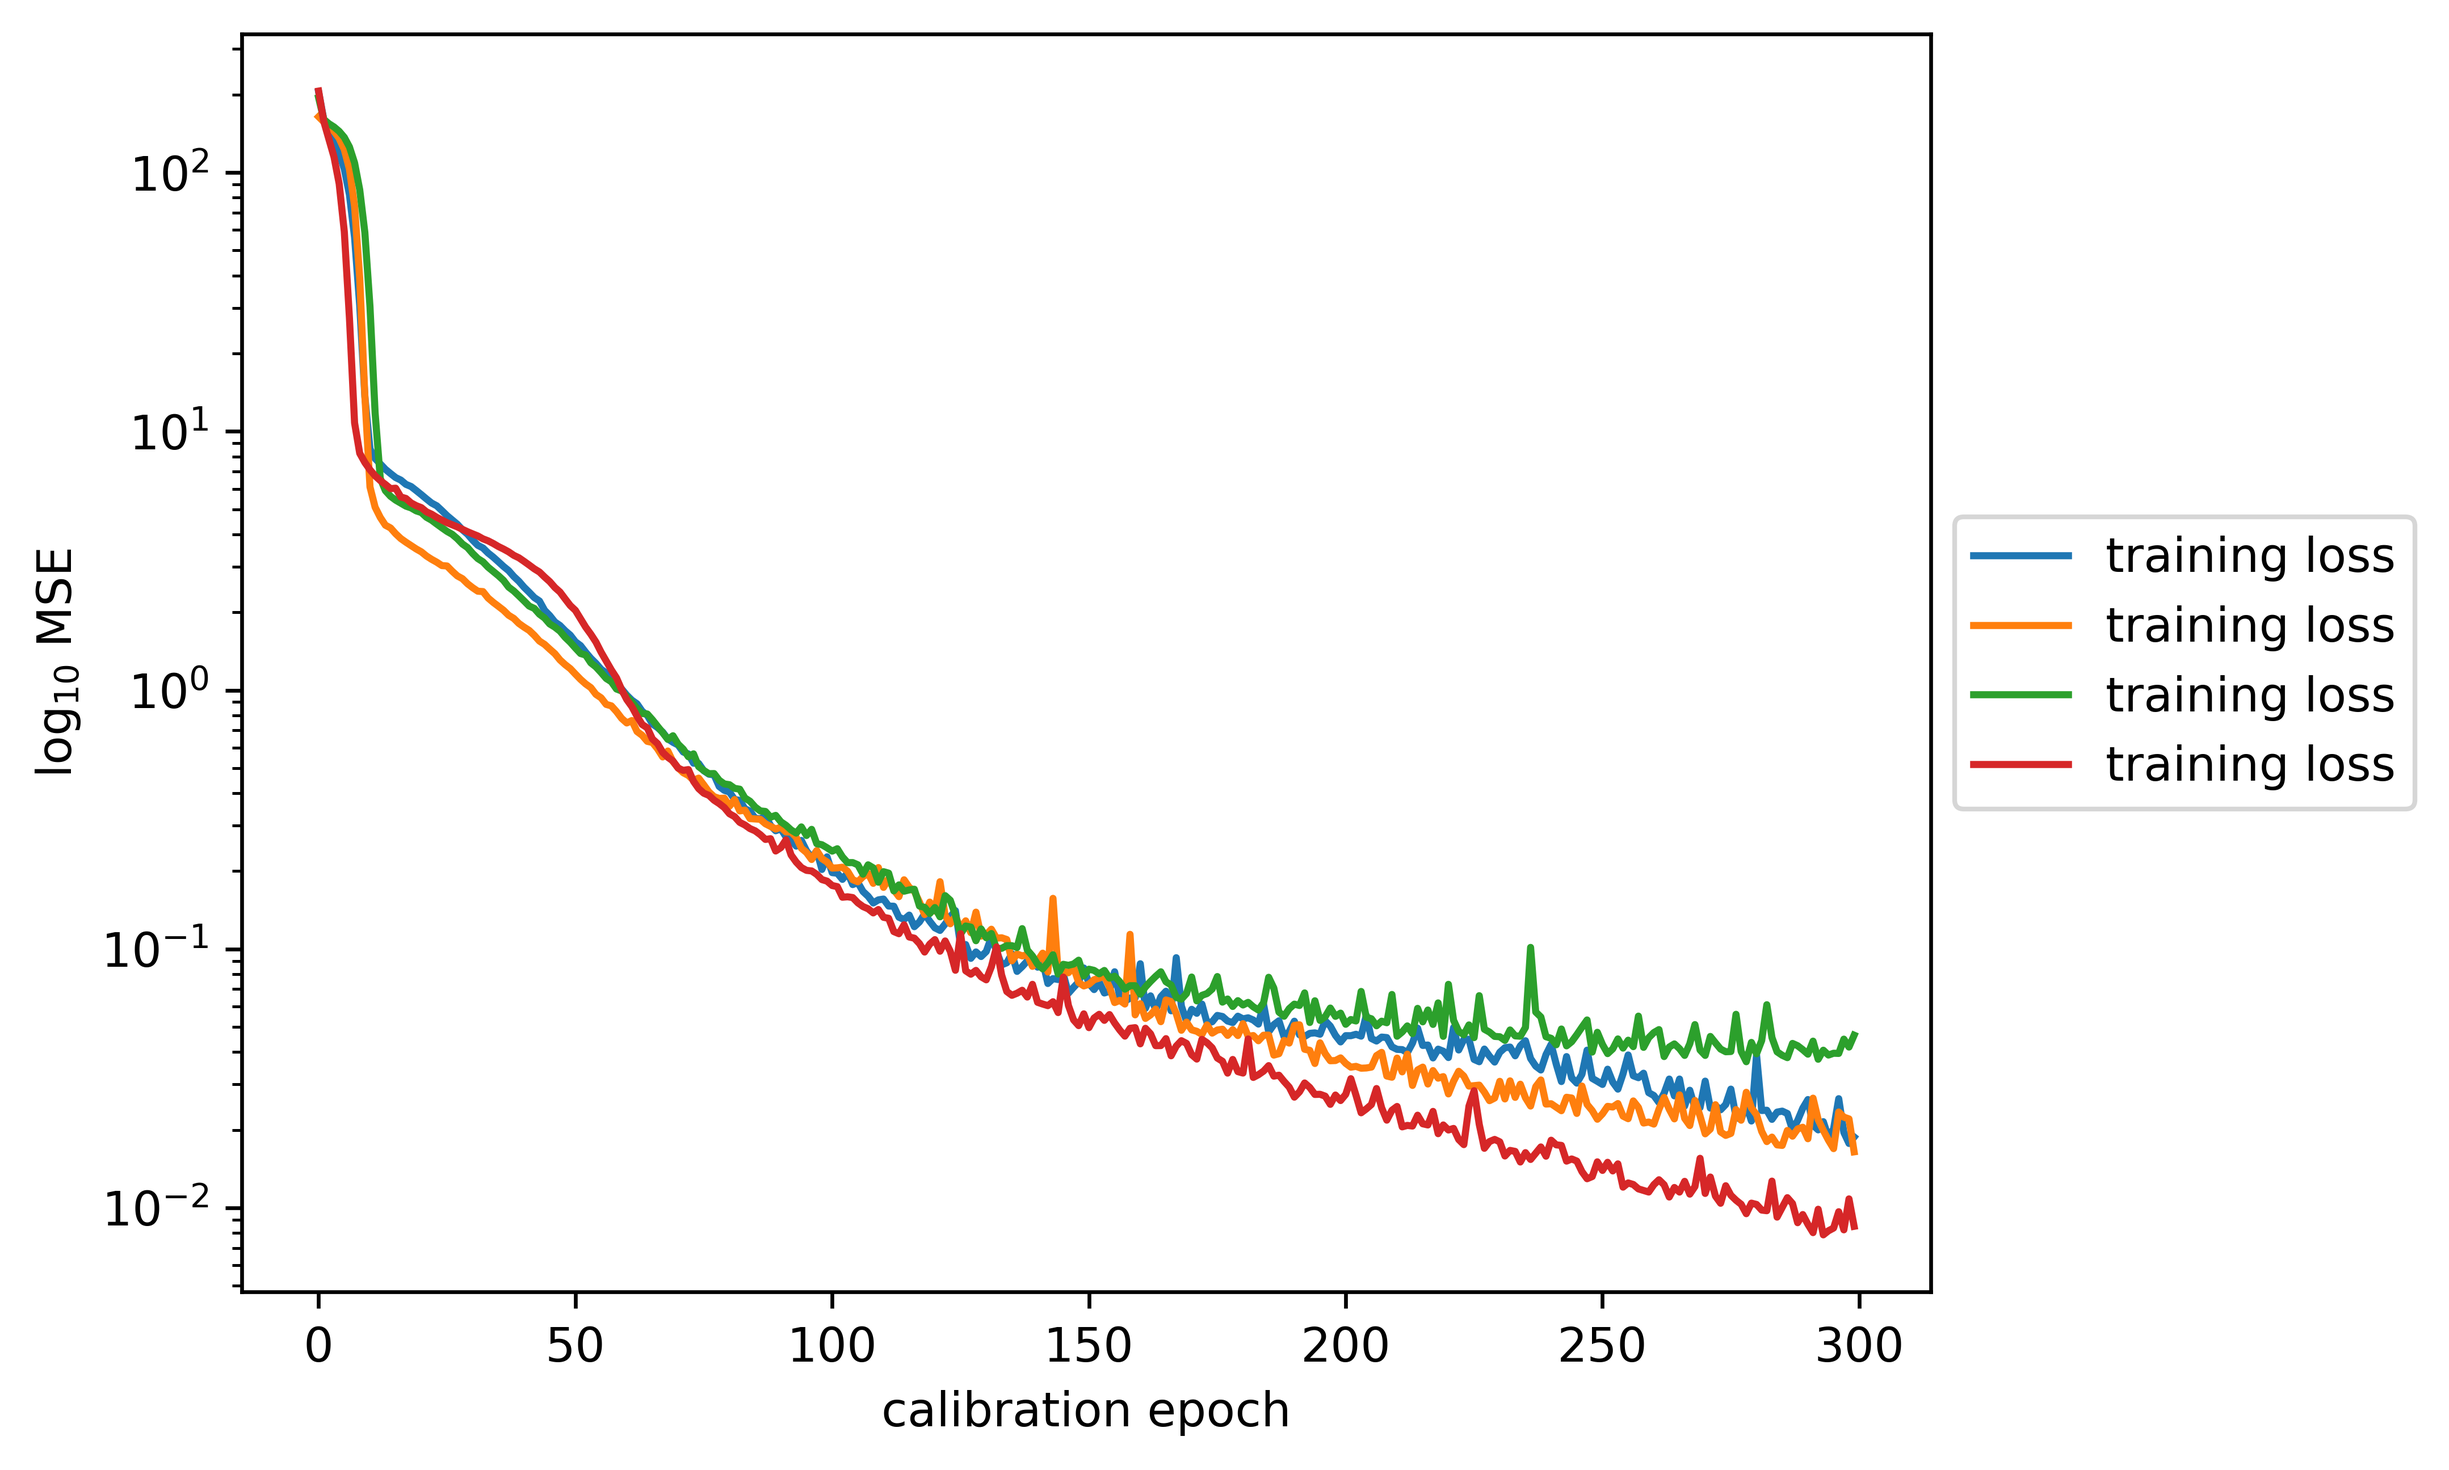
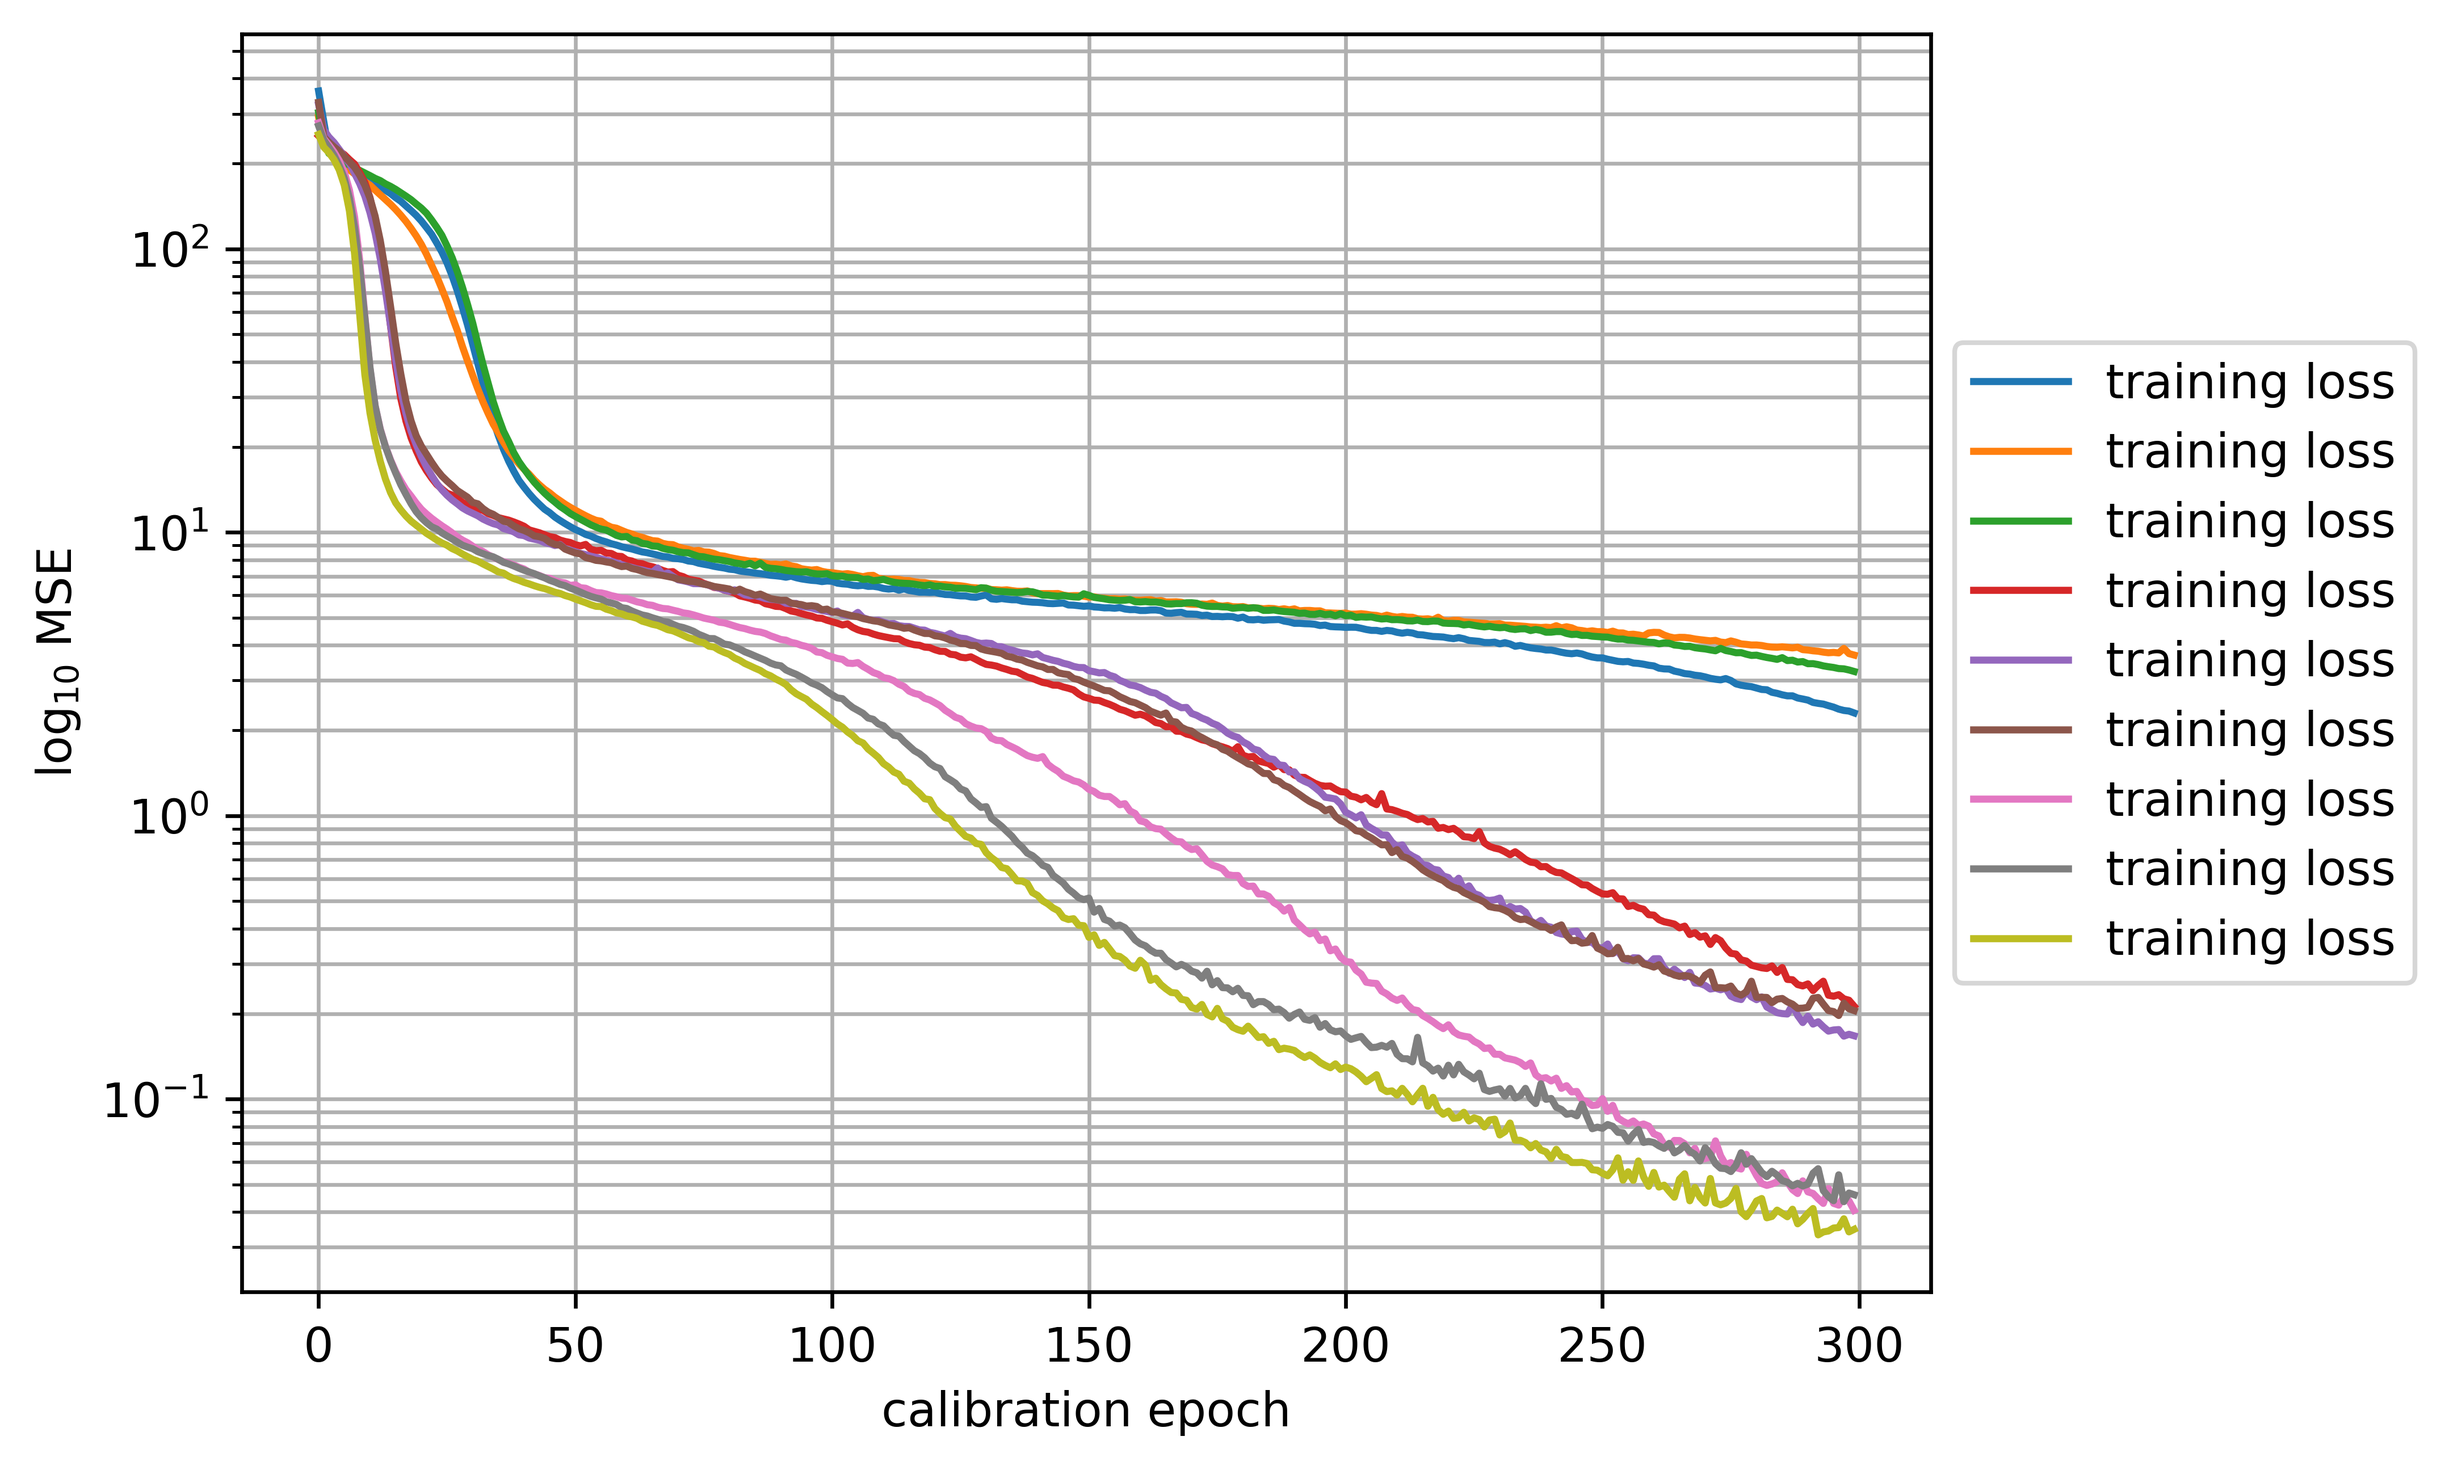
Reworked plots for task 4

diff --git a/Task_02/02_hyperelasticity_I/main_concentric_sampling.py b/Task_02/02_hyperelasticity_I/main_concentric_sampling.py
@@ -34,61 +34,34 @@ Training
 
 FNUM = 100
 #test_train_split = np.array([0.1,0.2,0.3,0.4,0.5,0.6,0.7,0.8,0.9,0.95,0.99])
-test_train_split = np.array([0.1,0.2])
-JMAX = 2
+test_train_split = np.array([0.1,0.2, 0.3])
+JMAX = 3
 t_type = 'PhysicsAugmented' # 'Naive'
 
-loss_weights = [0, 1] # only used for physics augmented training
+loss_weights = [1, 1] # only used for physics augmented training
 epochs = 300
 verbose = 0
 
-# create training and test split
-fnum = tf.random.shuffle(np.arange(1,FNUM + 1))
-ftrain, ftest = tf.split(fnum, [int(split * (FNUM + 1)), -1])
-
-# load test and train data paths
-train_paths = ld.generate_concentric_paths(ftrain)
-test_paths = ld.generate_concentric_paths(ftest)
+NUMSPLITS = test_train_split.size
 
 # initialization
-# mean_train_losses = np.zeros([test_train_split.size, 3])
-# mean_test_losses = np.zeros([test_train_split.size, 3])
-
-# median_train_losses = np.zeros([test_train_split.size, 3])
-# median_test_losses = np.zeros([test_train_split.size, 3])
-
-# max_train_losses = np.zeros([test_train_split.size, 3])
-# max_test_losses = np.zeros([test_train_split.size, 3])
-
-# min_train_losses = np.zeros([test_train_split.size, 3])
-# min_test_losses = np.zeros([test_train_split.size, 3])
-
-#tmp = pd.DataFrame(np.zeros([test_train_split.size, 3]),
-#            columns=['total', 'function', 'gradient'])
-#df_train = pd.concat([tmp, tmp, tmp, tmp], keys=('mean', 'median', 'max', 'min'))
-#df_test = pd.concat([tmp, tmp, tmp, tmp], keys=('mean', 'median', 'max', 'min'))
-
-train_losses = np.zeros([test_train_split.size, JMAX, len(train_paths), 3])
-test_losses = np.zeros([test_train_split.size, JMAX, len(test_paths), 3])
+train_losses = np.empty([NUMSPLITS, JMAX], dtype=object)
+test_losses = np.empty([NUMSPLITS, JMAX], dtype=object)
+#train_losses = np.zeros([NUMSPLITS, JMAX, len(train_paths), 3])
+#test_losses = np.zeros([NUMSPLITS, JMAX, len(test_paths), 3])
 
 t1 = now()
 for i, split in enumerate(test_train_split):
-    # mean_train_losses_tmp = np.zeros([JMAX,3])
-    # mean_test_losses_tmp = np.zeros([JMAX,3])
+    # create training and test split
+    fnum = tf.random.shuffle(np.arange(1,FNUM + 1))
+    ftrain, ftest = tf.split(fnum, [int(split * (FNUM + 1)), -1])
 
-    # median_train_losses_tmp = np.zeros([JMAX,3])
-    # median_test_losses_tmp = np.zeros([JMAX,3])
-
-    # max_train_losses_tmp = np.zeros([JMAX,3])
-    # max_test_losses_tmp = np.zeros([JMAX,3])
-
-    # min_train_losses_tmp = np.zeros([JMAX,3])
-    # min_test_losses_tmp = np.zeros([JMAX,3])
-    #train_losses_tmp = np.zeros([4, JMAX, 3])
-    #test_losses_tmp = np.zeros([4, JMAX, 3])
+    # load test and train data paths
+    train_paths = ld.generate_concentric_paths(ftrain)
+    test_paths = ld.generate_concentric_paths(ftest)
 
     for j in range(JMAX):
-        print(f'Model {i * JMAX + (j + 1)}/{test_train_split.size * JMAX}')
+        print(f'Model {i * JMAX + (j + 1)}/{NUMSPLITS * JMAX}')
 
         if t_type == 'PhysicsAugmented':
             tmodel = training.PhysicsAugmented(paths=train_paths, loss_weights=loss_weights,
@@ -100,62 +73,27 @@ for i, split in enumerate(test_train_split):
         tmodel.preprocess()
         tmodel.calibrate()
 
-        train_losses[i, j, :, :] = tmodel.evaluate(train_paths)
-        test_losses[i, j, :, :] = tmodel.evaluate(test_paths)
+        train_losses[i, j] = tmodel.evaluate(train_paths)
+        test_losses[i, j] = tmodel.evaluate(test_paths)
 
-        # evaluate
-        # mean_train_losses_tmp[j,:] = np.mean(tmodel.evaluate(train_paths), axis=0)
-        # mean_test_losses_tmp[j,:] = np.mean(tmodel.evaluate(test_paths), axis=0)
+        # Depending on the type of training the total loss might only contain the value
+        # of either training on the gradient or the functional value, e.g. if loss_weights
+        # is set to [0, 1]. To make sure that the total loss is always equal to the sum of
+        # all output losses it is necessary to compute the sum.
+        train_losses[i, j][:,0] = np.sum(train_losses[i,j][:,1:3], axis=1)
+        test_losses[i, j][:,0] = np.sum(test_losses[i,j][:,1:3], axis=1)
 
-        # median_train_losses_tmp[j,:] = np.median(tmodel.evaluate(train_paths), axis=0)
-        # median_test_losses_tmp[j,:] = np.median(tmodel.evaluate(test_paths), axis=0)
+tmp = np.array([np.concatenate(train_losses[i,:]) for i in range(NUMSPLITS)])
+mean_train_losses = np.array([np.mean(tmp[i], axis=0) for i in range(NUMSPLITS)])
+median_train_losses = np.array([np.median(tmp[i], axis=0) for i in range(NUMSPLITS)])
+max_train_losses = np.array([np.max(tmp[i], axis=0) for i in range(NUMSPLITS)])
+min_train_losses = np.array([np.min(tmp[i], axis=0) for i in range(NUMSPLITS)])
 
-        # max_train_losses_tmp[j,:] = np.max(tmodel.evaluate(train_paths), axis=0)
-        # max_test_losses_tmp[j,:] = np.max(tmodel.evaluate(test_paths), axis=0)
-
-        # min_train_losses_tmp[j,:] = np.min(tmodel.evaluate(train_paths), axis=0)
-        # min_test_losses_tmp[j,:] = np.min(tmodel.evaluate(test_paths), axis=0)
-
-        # train_losses_tmp[0,j,:] = np.mean(tmodel.evaluate(train_paths), axis=0)
-        # train_losses_tmp[1,j,:] = np.median(tmodel.evaluate(train_paths), axis=0)
-        # train_losses_tmp[2,j,:] = np.max(tmodel.evaluate(train_paths), axis=0)
-        # train_losses_tmp[3,j,:] = np.min(tmodel.evaluate(train_paths), axis=0)
-
-        # test_losses_tmp[0,j,:] = np.mean(tmodel.evaluate(test_paths), axis=0)
-        # test_losses_tmp[1,j,:] = np.median(tmodel.evaluate(test_paths), axis=0)
-        # test_losses_tmp[2,j,:] = np.max(tmodel.evaluate(test_paths), axis=0)
-        # test_losses_tmp[3,j,:] = np.min(tmodel.evaluate(test_paths), axis=0)
-
-    # mean_train_losses[i,:] = np.mean(mean_train_losses_tmp, axis=0)
-    # mean_test_losses[i,:] = np.mean(mean_test_losses_tmp, axis=0)
-
-    # median_train_losses[i,:] = np.median(median_train_losses_tmp, axis=0)
-    # median_test_losses[i,:] = np.median(median_test_losses_tmp, axis=0)
-
-    # max_train_losses[i,:] = np.max(max_train_losses_tmp, axis=0)
-    # max_test_losses[i,:] = np.max(max_test_losses_tmp, axis=0)
-
-    # min_train_losses[i,:] = np.min(min_train_losses_tmp, axis=0)
-    # min_test_losses[i,:] = np.min(min_test_losses_tmp, axis=0)
-
-# Depending on the type of training the total loss might only contain the value
-# of either training on the gradient or the functional value, e.g. if loss_weights
-# is set to [0, 1]. To make sure that the total loss is always equal to the sum of
-# all output losses it is necessary to compute the sum.
-train_losses[:,:,:,0] = np.sum(train_losses[:,:,:,1:3], axis=3)
-test_losses[:,:,:,0] = np.sum(test_losses[:,:,:,1:3], axis=3)
-
-mean_train_losses = np.mean(train_losses, axis=(1,2))
-median_train_losses = np.median(train_losses, axis=(1,2))
-min_train_losses = np.min(train_losses, axis=(1,2))
-max_train_losses = np.max(train_losses, axis=(1,2))
-
-mean_test_losses = np.mean(test_losses, axis=(1,2))
-median_test_losses = np.median(test_losses, axis=(1,2))
-min_test_losses = np.min(test_losses, axis=(1,2))
-max_test_losses = np.max(test_losses, axis=(1,2))
-
-
+tmp = np.array([np.concatenate(test_losses[i,:]) for i in range(NUMSPLITS)])
+mean_test_losses = np.array([np.mean(tmp[i], axis=0) for i in range(NUMSPLITS)])
+median_test_losses = np.array([np.median(tmp[i], axis=0) for i in range(NUMSPLITS)])
+max_test_losses = np.array([np.max(tmp[i], axis=0) for i in range(NUMSPLITS)])
+min_test_losses = np.array([np.min(tmp[i], axis=0) for i in range(NUMSPLITS)])
 
 t2 = now()
 print('it took', t2 - t1, '(sec) to calibrate and evaluate all models')
@@ -166,24 +104,27 @@ Plots
 
 '''
 
+alpha = 0.3
+
 # training
 fig = plt.figure(dpi=600)
 if t_type == 'PhysicsAugmented':
     plt.semilogy(test_train_split,mean_train_losses[:,0], color='firebrick', marker='o', label='mean')
     plt.semilogy(test_train_split,median_train_losses[:,0], color='firebrick', marker='s', label='median')
-    plt.fill_between(test_train_split, max_train_losses[:,0], min_train_losses[:,0], color='firebrick', alpha=0.5)
+    plt.fill_between(test_train_split, max_train_losses[:,0], min_train_losses[:,0], color='firebrick', alpha=alpha)
     
-    plt.semilogy(test_train_split,mean_train_losses[:,1], color='navy', marker='o', label='W loss')
-    plt.semilogy(test_train_split,median_train_losses[:,1], color='firebrick', marker='s', label='median loss')
-    plt.fill_between(test_train_split, max_train_losses[:,1], min_train_losses[:,1], color='navy', alpha=0.5)
+    plt.semilogy(test_train_split,mean_train_losses[:,1], color='navy', marker='o', label='W mean')
+    plt.semilogy(test_train_split,median_train_losses[:,1], color='navy', marker='s', label='W median')
+    plt.fill_between(test_train_split, max_train_losses[:,1], min_train_losses[:,1], color='navy', alpha=alpha)
 
-    plt.semilogy(test_train_split,mean_train_losses[:,2], color='darkorange', marker='o', label='mean')
-    plt.semilogy(test_train_split,median_train_losses[:,2], color='darkorange', marker='s', label='median')
-    plt.fill_between(test_train_split, max_train_losses[:,2], min_train_losses[:,2], color='darkorange', alpha=0.5)
+    plt.semilogy(test_train_split,mean_train_losses[:,2], color='darkorange', marker='o', label='P mean')
+    plt.semilogy(test_train_split,median_train_losses[:,2], color='darkorange', marker='s', label='P median')
+    plt.fill_between(test_train_split, max_train_losses[:,2], min_train_losses[:,2], color='darkorange', alpha=alpha)
 
 else:
-    plt.semilogy(test_train_split, mean_train_losses[:,0], color='firebrick', marker='o', label='loss')
-    plt.fill_between(test_train_split, max_train_losses[:,0], min_train_losses[:,0], color='firebrick', alpha=0.5)
+    plt.semilogy(test_train_split, mean_train_losses[:,0], color='firebrick', marker='o', label='mean')
+    plt.semilogy(test_train_split, median_train_losses[:,0], color='firebrick', marker='s', label='median')
+    plt.fill_between(test_train_split, max_train_losses[:,0], min_train_losses[:,0], color='firebrick', alpha=alpha)
 plt.title('Evaluation on training data')
 plt.xlabel('training fraction')
 plt.ylabel('loss')
@@ -198,19 +139,20 @@ fig = plt.figure(dpi=600)
 if t_type == 'PhysicsAugmented':
     plt.semilogy(test_train_split,mean_test_losses[:,0], color='firebrick', marker='o', label='mean')
     plt.semilogy(test_train_split,median_test_losses[:,0], color='firebrick', marker='s', label='median')
-    plt.fill_between(test_train_split, max_test_losses[:,0], min_test_losses[:,0], color='firebrick', alpha=0.5)
+    plt.fill_between(test_train_split, max_test_losses[:,0], min_test_losses[:,0], color='firebrick', alpha=alpha)
     
-    plt.semilogy(test_train_split,mean_test_losses[:,1], color='navy', marker='o', label='W loss')
-    plt.semilogy(test_train_split,median_test_losses[:,1], color='firebrick', marker='s', label='median loss')
-    plt.fill_between(test_train_split, max_test_losses[:,1], min_test_losses[:,1], color='navy', alpha=0.5)
+    plt.semilogy(test_train_split,mean_test_losses[:,1], color='navy', marker='o', label='W mean')
+    plt.semilogy(test_train_split,median_test_losses[:,1], color='navy', marker='s', label='W median')
+    plt.fill_between(test_train_split, max_test_losses[:,1], min_test_losses[:,1], color='navy', alpha=alpha)
 
-    plt.semilogy(test_train_split,mean_test_losses[:,2], color='darkorange', marker='o', label='mean')
-    plt.semilogy(test_train_split,median_test_losses[:,2], color='darkorange', marker='s', label='median')
-    plt.fill_between(test_train_split, max_test_losses[:,2], min_test_losses[:,2], color='darkorange', alpha=0.5)
+    plt.semilogy(test_train_split,mean_test_losses[:,2], color='darkorange', marker='o', label='P mean')
+    plt.semilogy(test_train_split,median_test_losses[:,2], color='darkorange', marker='s', label='P median')
+    plt.fill_between(test_train_split, max_test_losses[:,2], min_test_losses[:,2], color='darkorange', alpha=alpha)
 
 else:
-    plt.semilogy(test_train_split, mean_test_losses[:,0], color='firebrick', marker='o', label='loss')
-    plt.fill_between(test_train_split, max_test_losses[:,0], min_train_losses[:,0], color='firebrick', alpha=0.5)
+    plt.semilogy(test_train_split, mean_test_losses[:,0], color='firebrick', marker='o', label='mean')
+    plt.semilogy(test_train_split, median_test_losses[:,0], color='firebrick', marker='s', label='median')
+    plt.fill_between(test_train_split, max_test_losses[:,0], min_test_losses[:,0], color='firebrick', alpha=alpha)
 
 plt.title('Evaluation on training data')
 plt.xlabel('training fraction')
